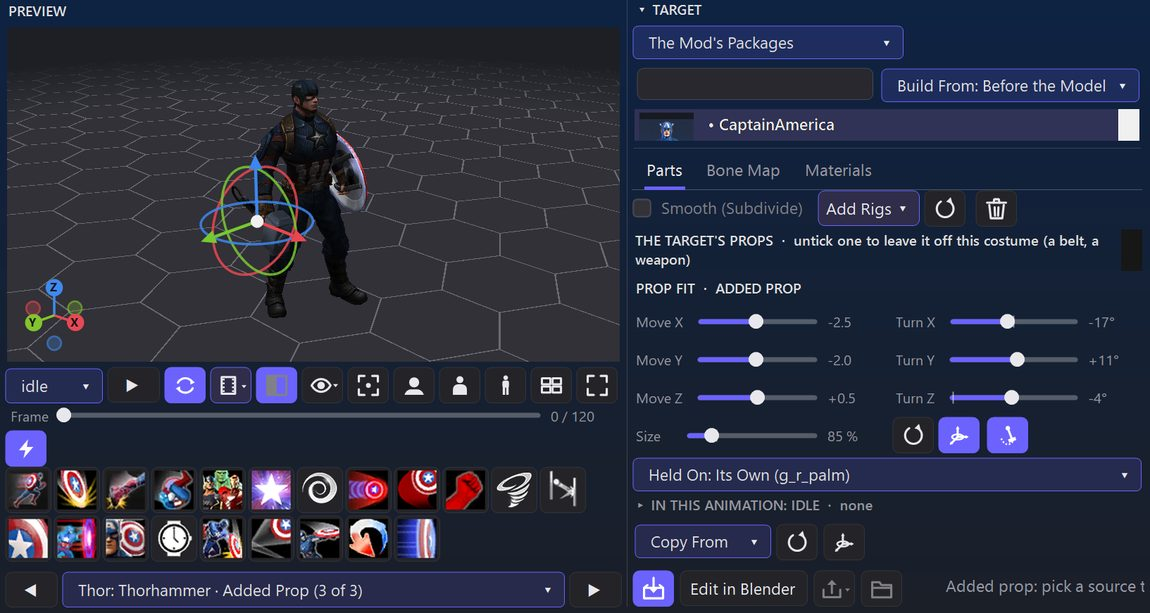
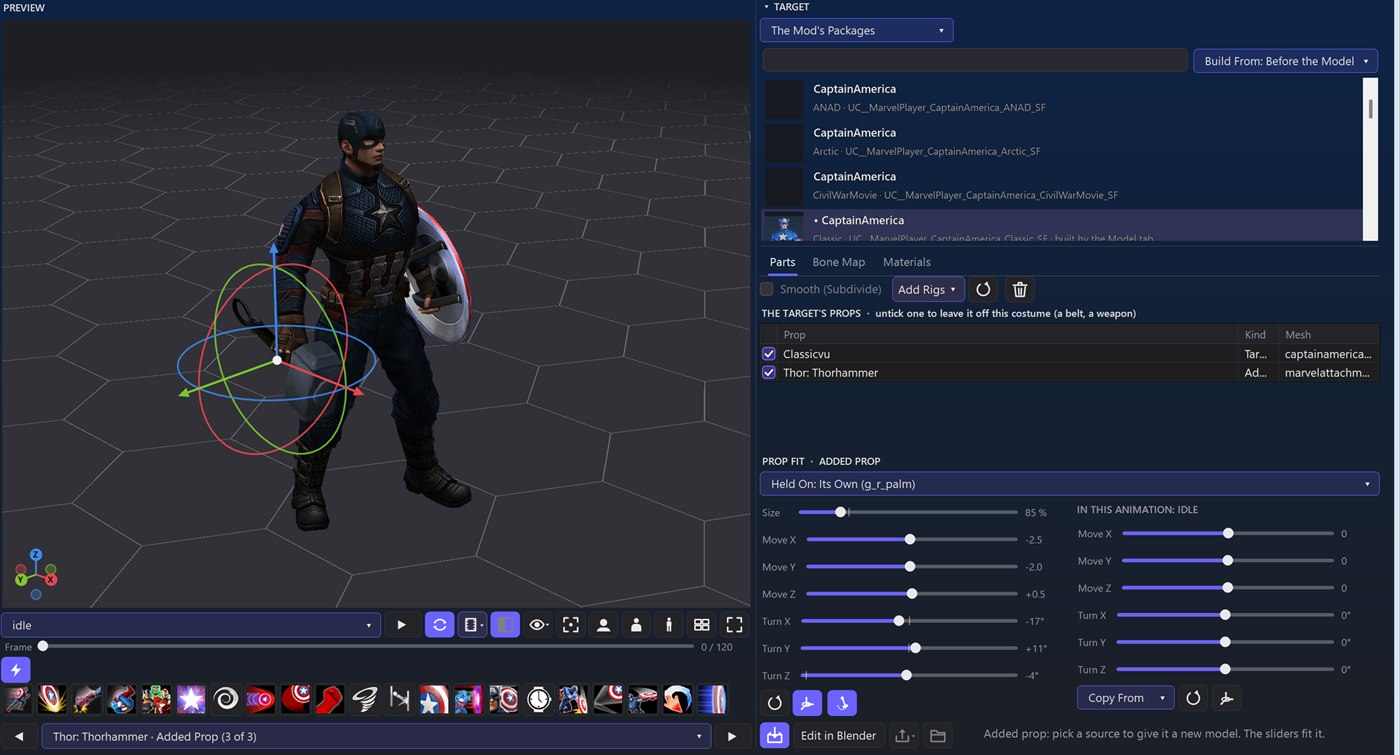
MHO Extended Mod Manager 0.60.274: prop fit laid out as the Powers tab on the Model and Animations tabs
Size, Move and Turn in one column with Reset Fit, Gizmo: All Animations and
Pivot on the Hand under them, In This Animation beside them (no longer
folded on the Model tab). The Animations tab gained Reset Fit. Manual and
its gizmo screenshot updated.

diff --git a/MhoExtendedModManager/Manual/manual.html b/MhoExtendedModManager/Manual/manual.html
@@ -489,9 +489,9 @@ Next time, <b>Edit in Blender</b> opens that same Blender scene again, with your
 <li>Each added prop gets a name of its own in the costume (its class, then <code>_on_</code> and the costume), so the game can't mix it up with the same prop on its own character or with another mod's: it knows a prop by that name, and whichever copy loads first would win. Props added with versions before 0.60.210 are renamed the next time the mod is saved.</li>
 <li>Left-click a prop in that list to see it on its own over the preview (<b>Back to the Costume</b> or <kbd>Esc</kbd> returns). Right-click it to add it to the costume picked under <b>Target</b>: it goes in at once, on the bone its own character holds it on, held all the time (a prop added before version 0.60.273 without a Held On bone could hang on no bone, which crashed other players' clients near you: open the mod in the Editor and save to repair it) (a prop its hero shows only for some powers, such as Angela's axes, too). An FBX is built as made: its own size and shape, carried by a plain prop class from the game (the game finds props by their class); pick its bone under <b>Held On ▾</b>. An MFF weapon comes in on the hand that holds it, sized to the hero (MFF keeps a weapon parked beside the character until its animations bring it in, so its grip may need a turn with the Prop Fit sliders); a weapon worn on the body, such as a holstered gun, stays where it's worn. In the Characters tab, right-click a part in the Parts list → <b>Add as a Prop</b> does the same for the source's parts.</li>
 <figure><img src="img/model-props-tab.jpg" alt="The Model tab's Props view: Angela 1602 picked on the left lists her props (axes, halberd, sword) in the panel under it; Thor holds Angela's sword, added with a right-click, with the gizmo on it."><figcaption>The Props view: a click on Angela 1602 lists her props under the characters; a right-click on one added her sword to Thor (the target stays Thor).</figcaption></figure>
-<li>It's picked under the preview (<code>Angela: Angelaaxe left · Added Prop (3 of 3)</code>) as the target, with a <b>gizmo</b> on it in the preview: lined up with the world's axes (Z up): drag a colored arrow (X red, Y green, Z blue) to move it along that axis of the world, the white dot in the middle to move it left / right and up / down in the view (or Quad View pane) you drag it in, or a colored ring to turn it around that axis only (the Prop Fit sliders follow, in the prop's own terms) (5° steps; hold <kbd>Shift</kbd> for 1°). It moves as you drag; let go and the fit goes in. On an added prop the gizmo sits at the middle of its model and turns it around that point, even when the model's own origin is somewhere else. In the <b>Quad View</b> it shows in all four panes, so you can drag it in Top, Front or Side too. The <b>Gizmo</b> icon button (three arrows and a ring) beside <b>Reset Fit</b> (the circular arrow) hides it or shows it again. <b>Prop Fit</b> on the right fits it too: <b>Move X / Y / Z</b>, <b>Turn X / Y / Z</b> and <b>Size</b>. Let go of a slider and the fit goes into the package; the preview shows it in the character's hand. <b>Reset Fit</b> puts it back as it came. The <b>Pivot on the Hand</b> button (a hammer swinging from a point, lit when on) is the same setting as the Animations and Powers tabs' button. <b>Held On ▾</b> holds it on another bone (the other hand, the back). Under the sliders, <b>In This Animation</b> adjusts it in the animation playing only (one taken from another character, or a borrowed power's); the gizmo works on the fit (<b>Gizmo: All Animations</b>) or on that adjustment (<b>Gizmo: This Animation Only</b>), whichever is lit. The fit and the adjustments are the same ones the Animations and Powers tabs show, kept in step. Building the character (step back to it with ◀ ▶) keeps the added props.</li>
-<figure><img src="img/model-prop-gizmo.jpg" alt="Thor's hammer added to Captain America, picked under the preview while his idle plays: the gizmo's arrows, rings and white dot on it; Prop Fit with Reset Fit, Gizmo: All Animations and Pivot on the Hand (both lit) beside Size; Held On: Its Own (g_r_palm); In This Animation: Idle folded, with Copy From, Reset and Gizmo: This Animation Only."><figcaption>The gizmo on an added prop: drag an arrow to move it, the white dot to move it in the view, a ring to turn it. Gizmo: All Animations (lit) works on the Prop Fit sliders; Gizmo: This Animation Only, under In This Animation, on the animation playing.</figcaption></figure>
-<li>To fit it differently in <b>one animation</b> (Cap's run holds the hammer out, his idle at his side): play that animation in the preview (one taken from another character, or a borrowed power's), then click <b>In This Animation</b> to open its sliders: Move X / Y / Z along the world's axes, Turn X / Y / Z about them, on top of the fit, in that animation only. Or light <b>Gizmo: This Animation Only</b> (beside Copy From and Reset) and drag the gizmo: it changes this animation's adjustment, not the fit. Only one of the two gizmo buttons is lit at a time; clicking the lit one hides the gizmo. Folded, the heading shows the adjustment (<code>none</code>, or its Move and Turn).</li>
+<li>It's picked under the preview (<code>Angela: Angelaaxe left · Added Prop (3 of 3)</code>) as the target, with a <b>gizmo</b> on it in the preview: lined up with the world's axes (Z up): drag a colored arrow (X red, Y green, Z blue) to move it along that axis of the world, the white dot in the middle to move it left / right and up / down in the view (or Quad View pane) you drag it in, or a colored ring to turn it around that axis only (the Prop Fit sliders follow, in the prop's own terms) (5° steps; hold <kbd>Shift</kbd> for 1°). It moves as you drag; let go and the fit goes in. On an added prop the gizmo sits at the middle of its model and turns it around that point, even when the model's own origin is somewhere else. In the <b>Quad View</b> it shows in all four panes, so you can drag it in Top, Front or Side too. The <b>Gizmo</b> icon button (three arrows and a ring) beside <b>Reset Fit</b> (the circular arrow) hides it or shows it again. <b>Prop Fit</b> on the right fits it too (laid out as on the Powers tab): <b>Size</b>, <b>Move X / Y / Z</b> and <b>Turn X / Y / Z</b>, with <b>Reset Fit</b>, the Gizmo button and Pivot on the Hand in a row under them. Let go of a slider and the fit goes into the package; the preview shows it in the character's hand. <b>Reset Fit</b> puts it back as it came. The <b>Pivot on the Hand</b> button (a hammer swinging from a point, lit when on) is the same setting as the Animations and Powers tabs' button. <b>Held On ▾</b> (above the sliders) holds it on another bone (the other hand, the back). Beside the sliders, <b>In This Animation</b> adjusts it in the animation playing only (one taken from another character, or a borrowed power's); the gizmo works on the fit (<b>Gizmo: All Animations</b>) or on that adjustment (<b>Gizmo: This Animation Only</b>), whichever is lit. The fit and the adjustments are the same ones the Animations and Powers tabs show, kept in step. Building the character (step back to it with ◀ ▶) keeps the added props.</li>
+<figure><img src="img/model-prop-gizmo.jpg" alt="Thor's hammer added to Captain America, picked under the preview while his idle plays: the gizmo's arrows, rings and white dot on it; Held On: Its Own (g_r_palm); Prop Fit with Size, Move and Turn, and Reset Fit, Gizmo: All Animations and Pivot on the Hand (both lit) under them; In This Animation: Idle beside them, with Copy From, Reset and Gizmo: This Animation Only"><figcaption>The gizmo on an added prop: drag an arrow to move it, the white dot to move it in the view, a ring to turn it. Gizmo: All Animations (lit) works on the Prop Fit sliders; Gizmo: This Animation Only, under In This Animation, on the animation playing.</figcaption></figure>
+<li>To fit it differently in <b>one animation</b> (Cap's run holds the hammer out, his idle at his side): play that animation in the preview (one taken from another character, or a borrowed power's), then use <b>In This Animation</b>'s sliders beside the fit: Move X / Y / Z along the world's axes, Turn X / Y / Z about them, on top of the fit, in that animation only. Or light <b>Gizmo: This Animation Only</b> (beside Copy From and Reset) and drag the gizmo: it changes this animation's adjustment, not the fit. Only one of the two gizmo buttons is lit at a time; clicking the lit one hides the gizmo.</li>
 <li><b>Pivot on the Hand</b> (the button with a hammer swinging from a point, beside the gizmo button) holds the prop in the animations taken from another character the way that character holds it: swinging where theirs swings. The fit, In This Animation and Pivot on the Hand are the same on the Model, Animations and Powers tabs: change them in any one, the others show it.</li>
 <li>To give it a <b>new model</b>, pick a source while it's picked under the preview (an MFF part, Single Model → an FBX, or a model from the game), then <b>Build into Mod</b>: the model is laid over the prop, as for the game's own props, and goes into the costume with the prop's fit. The preview shows it in the hand with that fit; <b>Paint</b> works on it. The new model is kept in the mod, so building the character again keeps it. With no source, Build into Mod puts its character's own model back (it asks first).</li>
 <li>To undo everything done to a costume since its last build, right-click it under <b>Target</b> → <b>Revert to Last Build</b>: the package goes back as that build made it, with the props as they were then. <b>Revert to Original</b> goes all the way back: the costume as it was before the Model tab built onto it (the mod's own copy from before, else the game's), its added props off and no source picked, so the preview shows the costume itself. <b>Copy a material setup:</b> on the <b>Materials</b> tab, select a material and use <b>This Material ▾</b> → <b>Copy Setup From a Costume</b> (with no source picked the tab lists the costume's own materials; with one picked, the costume's slot of the same name is used, else its only one, else you pick it). Pick the costume from the list (type to search; it reads the game's or your mods' copies, as the Source drop-down is set), and its material when it has several. That material's setup (its shader, switches and values: spec, rim, glow strength, colors) is copied into the costume's package under a name of its own, and the costume's model uses the copy. The maps stay the costume's own (color, normal and the others it has), since two models' maps are laid out differently; the source's environment image (its reflection picture) comes along, copied into the package when it's in another hero's; a map it hasn't got gets a flat stand-in (a flat normal, no spec, no glow), which <b>Replace File</b> can change. Example: Luke Cage's Skrull costume with Modern's look. A popup says what will happen first. <b>Revert to Original</b> takes it off.</li>

diff --git a/MhoExtendedModManager/Model/Gui/ModelPage.PropFit.cs b/MhoExtendedModManager/Model/Gui/ModelPage.PropFit.cs
@@ -37,16 +37,18 @@ sealed partial class ModelPage
     /// <summary>The Prop Fit sliders' box (shown in place of the size sliders for a prop target).</summary>
     Control PropFitBox(int sliderHeight)
     {
-        // two columns (Move | Turn), so the Target list and the tabs above keep their room
-        var box = new TableLayoutPanel { ColumnCount = 2, RowCount = 5, AutoSize = true, AutoSizeMode = AutoSizeMode.GrowAndShrink, BackColor = Color.Transparent, Margin = new Padding(0), Visible = false, Dock = DockStyle.Fill };
+        // laid out as the Powers tab's Prop Fit (Kurt, 2026-10-30): Held On above; the fit (Size, Move, Turn, then Reset Fit,
+        // the gizmo and Pivot on the Hand) on the left, In This Animation on the right
+        var box = new TableLayoutPanel { ColumnCount = 2, RowCount = 2, AutoSize = true, AutoSizeMode = AutoSizeMode.GrowAndShrink, BackColor = Color.Transparent, Margin = new Padding(0), Visible = false, Dock = DockStyle.Fill };
         box.ColumnStyles.Add(new ColumnStyle(SizeType.Percent, 50)); box.ColumnStyles.Add(new ColumnStyle(SizeType.Percent, 50));
-        LightSlider[] left = [propMoveX, propMoveY, propMoveZ, propScale], right = [propTurnX, propTurnY, propTurnZ];
-        for (int k = 0; k < left.Length; k++) Place(left[k], 0, k);
-        for (int k = 0; k < right.Length; k++) Place(right[k], 1, k);
-        void Place(LightSlider s, int col, int row)
+        var fitCol = new TableLayoutPanel { ColumnCount = 1, RowCount = 8, AutoSize = true, AutoSizeMode = AutoSizeMode.GrowAndShrink, BackColor = Color.Transparent, Margin = new Padding(0, 0, 12, 0), Dock = DockStyle.Fill };
+        fitCol.ColumnStyles.Add(new ColumnStyle(SizeType.Percent, 100));
+        LightSlider[] order = [propScale, propMoveX, propMoveY, propMoveZ, propTurnX, propTurnY, propTurnZ];
+        for (int k = 0; k < order.Length; k++)
         {
-            s.Height = sliderHeight; s.Dock = DockStyle.Fill; s.Margin = new Padding(col == 0 ? 0 : 8, row == 0 ? 0 : 2, col == 0 ? 8 : 0, 0);
-            box.Controls.Add(s, col, row);
+            var s = order[k];
+            s.Height = sliderHeight; s.Dock = DockStyle.Fill; s.Margin = new Padding(0, k == 0 ? 0 : 2, 0, 0);
+            fitCol.Controls.Add(s, 0, k);
             s.ValueChanged += PropFitChanged;
             s.Committed += AddedFitCommitted;
         }
@@ -63,14 +65,15 @@ sealed partial class ModelPage
         Icons.Make(reset, "Reset Fit", Icons.Reset, sc);
         Icons.Make(gizmoButton, "Gizmo: All Animations", Icons.Gizmo, sc);
         Ui.Lit(gizmoButton, Settings.Current.Preview.Gizmo);
-        var fitButtons = new FlowLayoutPanel { AutoSize = true, WrapContents = false, BackColor = Color.Transparent, Margin = new Padding(8, 2, 0, 0), Anchor = AnchorStyles.Left };
+        var fitButtons = new FlowLayoutPanel { AutoSize = true, WrapContents = false, BackColor = Color.Transparent, Margin = new Padding(0, 4, 0, 0), Anchor = AnchorStyles.Left };
         var pinButton = Icons.PivotToggle(pinBox, "The animations this costume took from another character hold the prop as that character holds it: in the hand where theirs is held, swinging where theirs swings (Thor's fidget02 swings the hammer by its strap). The same setting as the Animations and Powers tabs' button. For an added prop.", sc);
         pinButton.Margin = new Padding((int)(6 * sc), 0, 0, 0);
         pinButton.Visible = false;
         fitButtons.Controls.AddRange([reset, gizmoButton, pinButton]);
-        box.Controls.Add(fitButtons, 1, 3);
-        heldOn.Dock = DockStyle.Fill; heldOn.Margin = new Padding(0, 6, 0, 0);
-        box.Controls.Add(heldOn, 0, 4);
+        fitCol.Controls.Add(fitButtons, 0, 7);
+        heldOn.Dock = DockStyle.Fill; heldOn.Margin = new Padding(0, 0, 0, 6);
+        box.Controls.Add(heldOn, 0, 0);
+        box.Controls.Add(fitCol, 0, 1);
         box.SetColumnSpan(heldOn, 2);
         Ui.Tip(heldOn, "The character bone the prop is held on: its own (as its character holds it), or another (the left hand, the back, the hip). It goes into the package at once; the sliders then fit it on that bone. Only this costume changes.");
         heldOn.SelectedIndexChanged += async (_, _) =>
@@ -101,13 +104,13 @@ sealed partial class ModelPage
         modelAnimBlock = new MhoExtendedModManager.Gui.AnimFitBlock(sc, "The added prop moved and turned further in the animation playing only, for a pose that wants it elsewhere. Needs an animation taken from another character (Animations tab) or a borrowed power's. The same adjustment as the Animations and Powers tabs' In This Animation.",
             () => addedPick is { } e ? (e, preview.CurrentAnimationName, host.AnimFitWhy(e, preview.CurrentAnimationName)) : (null, null, ""),
             (e, slot, a) => host.SetAnimFit(e, slot, a),
-            c => { var f = new FlowLayoutPanel { AutoSize = true, WrapContents = false, BackColor = Color.Transparent, Margin = new Padding(0, 4, 0, 0) }; f.Controls.AddRange(c); return f; }, gizmo: true, twoColumns: true);
-        modelAnimBlock.Root.Dock = DockStyle.Fill;
+            c => { var f = new FlowLayoutPanel { AutoSize = true, WrapContents = false, BackColor = Color.Transparent, Margin = new Padding(0, 4, 0, 0) }; f.Controls.AddRange(c); return f; }, gizmo: true);
+        modelAnimBlock.Root.Margin = new Padding(12, 0, 0, 0);
         modelAnimBlock.GizmoTargetChanged += () => PickModelGizmo(thisAnimation: true);
         modelAnimBlock.Root.Visible = false;
-        box.RowCount = 6;
-        box.Controls.Add(modelAnimBlock.Root, 0, 5);
-        box.SetColumnSpan(modelAnimBlock.Root, 2);
+        box.Controls.Add(modelAnimBlock.Root, 1, 1);
+        // its sliders as wide as the fit's beside them
+        box.SizeChanged += (_, _) => { if (box.GetColumnWidths() is { Length: 2 } cw && cw[1] > 40) modelAnimBlock.SetSliderWidth(cw[1] - 12); };
         return propFitBox = box;
     }
 

diff --git a/MhoExtendedModManager/Gui/AnimFitBlock.cs b/MhoExtendedModManager/Gui/AnimFitBlock.cs
@@ -26,12 +26,8 @@ sealed class AnimFitBlock
     /// choose which the gizmo works on). Only with a gizmo (the Powers tab's).</summary>
     public bool GizmoHere { get; set; }
     readonly Button? gizmoHere;
-    /// <summary>The sliders' two-column table (twoColumns), or null.</summary>
-    readonly Control? sliderGrid;
-    /// <summary>The two-column block opened (its heading clicked).</summary>
-    bool open;
 
-    public AnimFitBlock(float scale, string headTip, Func<(AddedPropEntry? Entry, string? Slot, string Why)> target, Action<AddedPropEntry, string, PropAnimFit?> changed, Func<Control[], Control> toolbar, bool gizmo = false, bool twoColumns = false)
+    public AnimFitBlock(float scale, string headTip, Func<(AddedPropEntry? Entry, string? Slot, string Why)> target, Action<AddedPropEntry, string, PropAnimFit?> changed, Func<Control[], Control> toolbar, bool gizmo = false)
     {
         this.target = target; this.changed = changed;
         string Units(float v) => $"{v:+0;-0;0}";
@@ -65,32 +61,17 @@ sealed class AnimFitBlock
             Ui.Lit(gizmoHere, false);
         }
         tools = toolbar(gizmoHere != null ? [copy, reset, gizmoHere] : [copy, reset]);
-        if (twoColumns)
-        {
-            // Move | Turn side by side (the Model tab's column, Kurt 2026-10-30: the panel under it kept its room)
-            var grid = new TableLayoutPanel { ColumnCount = 2, RowCount = 3, AutoSize = true, AutoSizeMode = AutoSizeMode.GrowAndShrink, BackColor = Color.Transparent, Margin = new Padding(0), Dock = DockStyle.Fill };
-            grid.ColumnStyles.Add(new ColumnStyle(SizeType.Percent, 50)); grid.ColumnStyles.Add(new ColumnStyle(SizeType.Percent, 50));
-            LightSlider[] l = [x, y, z], r = [tx, ty, tz];
-            for (int k = 0; k < 3; k++)
-            {
-                l[k].Dock = DockStyle.Fill; l[k].Margin = new Padding(0, k == 0 ? 0 : 2, 8, 0); grid.Controls.Add(l[k], 0, k);
-                r[k].Dock = DockStyle.Fill; r[k].Margin = new Padding(8, k == 0 ? 0 : 2, 0, 0); grid.Controls.Add(r[k], 1, k);
-            }
-            sliderGrid = grid;
-            // folds (the Model tab's column has no room for the sliders always): the heading opens it, and so does Gizmo:
-            // This Animation Only; folded, the heading shows the values
-            head.Cursor = Cursors.Hand;
-            head.Click += (_, _) => { open = !open; Show(); };
-            Root.Controls.AddRange([head, note, grid, tools]);
-        }
-        else Root.Controls.AddRange([head, note, x, y, z, tx, ty, tz, tools]);
+        Root.Controls.AddRange([head, note, x, y, z, tx, ty, tz, tools]);
     }
 
     /// <summary>Gizmo: This Animation Only clicked (the view decides, with its Gizmo: All Animations).</summary>
     public event Action? GizmoTargetChanged;
 
     /// <summary>Gizmo: This Animation Only lit or not.</summary>
-    public void LightGizmo(bool on) { if (gizmoHere != null) Ui.Lit(gizmoHere, on); if (sliderGrid != null) Show(); }
+    public void LightGizmo(bool on) { if (gizmoHere != null) Ui.Lit(gizmoHere, on); }
+
+    /// <summary>The sliders' width (the Model tab's column: as wide as its Prop Fit column beside it).</summary>
+    public void SetSliderWidth(int w) { foreach (var sl in new[] { x, y, z, tx, ty, tz }) sl.Width = w; }
 
     /// <summary>The prop and animation the sliders adjust (null when they can't).</summary>
     public (AddedPropEntry Entry, string Slot)? Target => target() is var (e, slot, why) && e != null && slot != null && why.Length == 0 ? (e, slot) : null;
@@ -119,14 +100,6 @@ sealed class AnimFitBlock
         head.Visible = e != null;
         head.Text = slot != null ? "IN THIS ANIMATION: " + slot.ToUpperInvariant() : "IN THIS ANIMATION";
         foreach (var c in new Control[] { x, y, z, tx, ty, tz, tools }) c.Visible = can;
-        if (sliderGrid != null)
-        {
-            bool shown = can && (open || GizmoHere);
-            sliderGrid.Visible = shown;
-            if (can && !shown && Of(e!, slot) is var f)
-                head.Text = (f is { IsZero: false } ? $"▸ IN THIS ANIMATION: {slot!.ToUpperInvariant()}  ·  Move {f.X:0}, {f.Y:0}, {f.Z:0}  ·  Turn {f.TurnX:0}°, {f.TurnY:0}°, {f.TurnZ:0}°" : $"▸ IN THIS ANIMATION: {slot!.ToUpperInvariant()}  ·  none");
-            else if (can) head.Text = "▾ " + head.Text;
-        }
         note.Text = e == null ? "" : why;
         note.Visible = e != null && why.Length > 0;
         if (!can) return;

diff --git a/MhoExtendedModManager/Gui/ModEditorView.Props.cs b/MhoExtendedModManager/Gui/ModEditorView.Props.cs
@@ -57,15 +57,15 @@ sealed partial class ModEditorView
         apTX = Slider("Turn X", -180, 180, 1, Deg, "Turns the prop about its own X axis (roll). Double-click: back to 0.");
         apTY = Slider("Turn Y", -180, 180, 1, Deg, "Turns the prop about its own Y axis (pitch). Double-click: back to 0.");
         apTZ = Slider("Turn Z", -180, 180, 1, Deg, "Turns the prop about its own Z axis (yaw). Some props start turned for this hand (Thor's hammer). Double-click: back to that start.");
-        var propPinButton = Icons.PivotToggle(propPin, "The animations this costume took from another character (Animations tab: Thor's idles and fidgets) hold the prop as that character holds it: in the hand where they hold it, swinging where theirs swings (Thor's fidget02 swings the hammer by its strap). Worked out from that character's own animation and baked into the copies. Look ▾ → Prop Pivots shows the pivot. The same setting as the Model and Powers tabs' button.", S);
-        propPinButton.Margin = new Padding(0, (int)(6 * S), 0, (int)(2 * S));
+        propPinButton = Icons.PivotToggle(propPin, "The animations this costume took from another character (Animations tab: Thor's idles and fidgets) hold the prop as that character holds it: in the hand where they hold it, swinging where theirs swings (Thor's fidget02 swings the hammer by its strap). Worked out from that character's own animation and baked into the copies. Look ▾ → Prop Pivots shows the pivot. The same setting as the Model and Powers tabs' button.", S);
+        propPinButton.Margin = new Padding((int)(6 * S), 0, 0, 0);
         propPin.CheckedChanged += (_, _) => PinChanged();
         animBlock = new AnimFitBlock(S, "The prop moved and turned further in one animation (the row selected above), for a pose that wants it elsewhere. Needs an animation from another character (a Changed row); with Pivot on the Hand or without.",
             () => { var e = propList.SelectedItem as AddedPropEntry; AnimFitSlot(e, out string why); return (e, SelectedAnim?.Name, why); }, SetAnimFit, c => Toolbar(c), gizmo: true);
         animBlock.GizmoTargetChanged += () => PickAnimGizmo(thisAnimation: true);
         // the fit (left) and this animation's adjustment (right), side by side so the list above keeps its room
         var fitCol = new FlowLayoutPanel { FlowDirection = FlowDirection.TopDown, AutoSize = true, WrapContents = false, Margin = new Padding(0) };
-        fitCol.Controls.AddRange([propPinButton, apSize, apX, apY, apZ, apTX, apTY, apTZ, AnimGizmoButtons()]);
+        fitCol.Controls.AddRange([apSize, apX, apY, apZ, apTX, apTY, apTZ, AnimGizmoButtons()]);
         var animCol = new FlowLayoutPanel { FlowDirection = FlowDirection.TopDown, AutoSize = true, WrapContents = false, Margin = new Padding((int)(24 * S), 0, 0, 0) };
         animCol.Controls.Add(animBlock.Root);
         var cols = new FlowLayoutPanel { FlowDirection = FlowDirection.LeftToRight, AutoSize = true, WrapContents = true, Margin = new Padding(0) };
@@ -103,7 +103,7 @@ sealed partial class ModEditorView
         propList.Visible = on;
         // (the fit here too, Kurt 2026-10-30: the same as the Model and Powers tabs')
         foreach (var sl in new[] { apSize, apX, apY, apZ, apTX, apTY, apTZ }) if (sl != null) sl.Visible = on;
-        if (animGizmoButton != null) animGizmoButton.Visible = on;
+        if (animFitButtons != null) animFitButtons.Visible = on;
         HookAnimGizmo();
         propPin.Visible = on;
         if (propRemove != null) propRemove.Enabled = on;

diff --git a/MhoExtendedModManager/Gui/ModEditorView.AnimGizmo.cs b/MhoExtendedModManager/Gui/ModEditorView.AnimGizmo.cs
@@ -11,20 +11,45 @@ namespace MhoExtendedModManager.Gui;
 sealed partial class ModEditorView
 {
     Button? animGizmoButton;
+    /// <summary>Pivot on the Hand's icon button (beside the gizmo, as in the Powers tab).</summary>
+    Button? propPinButton;
     Preview3D? animGizmoHooked;
     PropFit? animFitBuilt;
     (float X, float Y, float Z, float TX, float TY, float TZ)? animFitStart;
     PropAnimFit? animAdjustStart;
     Matrix4x4? animGizmoFrame;
 
-    /// <summary>Gizmo: All Animations, for the fit column.</summary>
+    /// <summary>Reset Fit, Gizmo: All Animations and Pivot on the Hand under the fit's sliders (laid out as the Powers tab's,
+    /// Kurt 2026-10-30).</summary>
     Control AnimGizmoButtons()
     {
+        var reset = Ui.FlatButton("Reset Fit", ResetAnimPropFit, "Puts the prop's fit back: its own size, no move, its usual turn.");
+        Icons.Make(reset, "Reset Fit", Icons.Reset, S);
         animGizmoButton = Ui.FlatButton("Gizmo: All Animations", () => PickAnimGizmo(thisAnimation: false), "The move / turn gizmo in the preview on the prop's fit in every animation (these sliders): drag a colored arrow to move it along X (red), Y (green) or Z (blue), the white dot to move it in the view, a ring to turn it around that axis (5° steps, Shift: 1°). Letting go puts the fit in. Lit when it's on; click again to hide the gizmo. Gizmo: This Animation Only (In This Animation) is the other choice.");
         Icons.Make(animGizmoButton, "Gizmo: All Animations", Icons.Gizmo, S);
-        animGizmoButton.Margin = new Padding(0, (int)(4 * S), 0, 0);
         LightAnimGizmos();
-        return animGizmoButton;
+        var row = new FlowLayoutPanel { AutoSize = true, WrapContents = false, Margin = new Padding(0, (int)(4 * S), 0, 0), BackColor = Color.Transparent };
+        row.Controls.AddRange([reset, animGizmoButton]);
+        if (propPinButton != null) row.Controls.Add(propPinButton);
+        animFitButtons = row;
+        return row;
+    }
+
+    Control? animFitButtons;
+
+    void ResetAnimPropFit()
+    {
+        if (propList.SelectedItem is not AddedPropEntry e || apSize == null || apX == null || apY == null || apZ == null || apTX == null || apTY == null || apTZ == null) return;
+        propShowing = true;
+        try
+        {
+            apSize.Value = 1;
+            apX.Value = apY.Value = apZ.Value = 0;
+            apTX.Value = apTY.Value = 0;
+            apTZ.Value = PowerBorrow.DefaultTurnZ(e.Class);
+        }
+        finally { propShowing = false; }
+        PropFitCommitted();
     }
 
     void PickAnimGizmo(bool thisAnimation)
